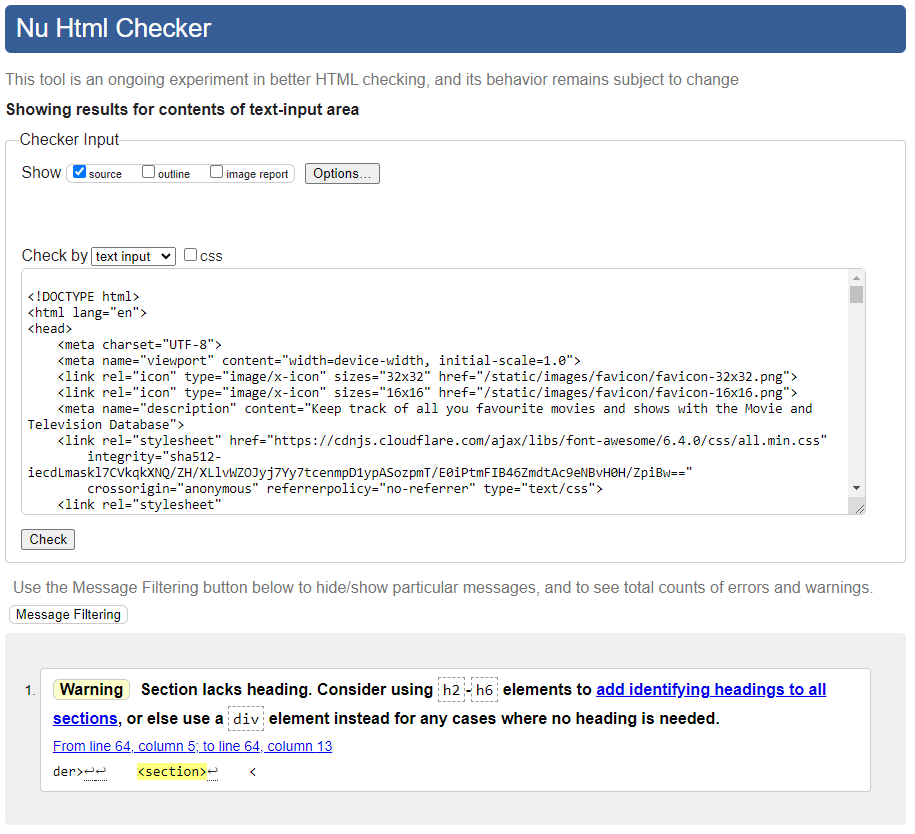
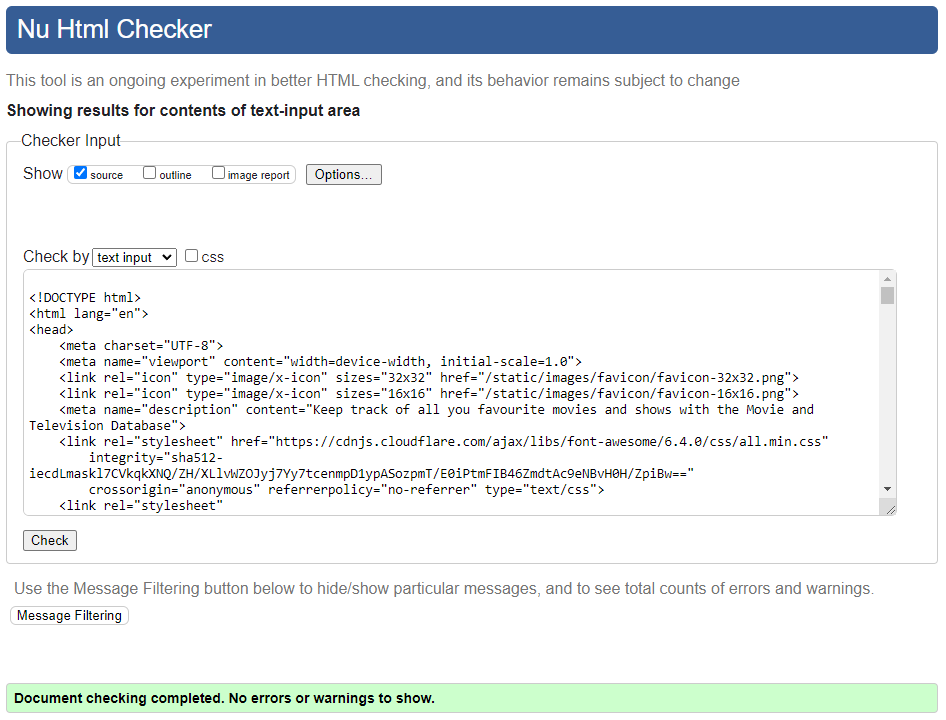
Handle Internal Server Error

diff --git a/templates/500.html b/templates/500.html
@@ -1,0 +1,46 @@
+<!DOCTYPE html>
+<html lang="en">
+<head>
+    <meta charset="UTF-8">
+    <meta name="viewport" content="width=device-width, initial-scale=1.0">
+    <meta http-equiv="X-UA-Compatible" content="ie=edge">
+    <meta name="description" content="Page not found">
+    <meta http-equiv="refresh" content="10; url={{ url_for('home') }}">
+    <link rel="icon" type="image/x-icon" sizes="32x32" href="{{ url_for('static', filename='images/favicon/favicon-32x32.png') }}">
+    <link rel="icon" type="image/x-icon" sizes="16x16" href="{{ url_for('static', filename='images/favicon/favicon-16x16.png') }}">
+    <link rel="stylesheet" href="https://cdnjs.cloudflare.com/ajax/libs/font-awesome/6.4.0/css/all.min.css" 
+        integrity="sha512-iecdLmaskl7CVkqkXNQ/ZH/XLlvWZOJyj7Yy7tcenmpD1ypASozpmT/E0iPtmFIB46ZmdtAc9eNBvH0H/ZpiBw==" 
+        crossorigin="anonymous" referrerpolicy="no-referrer" type="text/css">
+    <link rel="stylesheet" href="https://cdnjs.cloudflare.com/ajax/libs/materialize/1.0.0/css/materialize.min.css" type="text/css">
+    <link href="https://fonts.googleapis.com/icon?family=Material+Icons" rel="stylesheet">
+    <link rel="stylesheet" href="{{ url_for('static', filename='css/style.css') }}" type="text/css">
+    <title>500 | MTDb | 500</title>
+</head>
+<body>
+    <main class="error-page">
+        <!-- Start of 500 message -->
+        <section class="container">
+            <div class="row">
+                <div class="col s12 error-content">
+                    <h1>500</h1>
+                    <h3>Internal Server Error!</h3>
+                    <p>
+                        You'll automatically be redirected to the homepage in <strong id="countdown">10</strong> seconds.
+                        <br>
+                        Return to <a href="{{ url_for('home') }}"><strong>Home Page</strong></a> now!
+                    </p>
+                </div>
+            </div>
+        </section>
+    </main>
+    
+    <!-- Script for countdown timer -->
+    <script>
+        let coundown = 9;
+        let timer = setInterval(function(){  
+            document.getElementById("countdown").innerHTML = coundown;
+            coundown -= 1;
+        }, 1000);
+    </script>
+</body>
+</html>

diff --git a/app.py b/app.py
@@ -720,6 +720,14 @@ def page_not_found(e):
     return render_template("404.html"), 404
 
 
+@app.errorhandler(500)
+def internal_server_error(e):
+    """
+    Route for all 500 errors
+    """
+    return render_template("500.html"), 500
+
+
 if __name__ == "__main__":
     app.run(host=os.environ.get("IP"),
             port=int(os.environ.get("PORT")),

diff --git a/TESTING.md b/TESTING.md
@@ -10,13 +10,13 @@ I have used the recommended [HTML W3C Validator](https://validator.w3.org) to va
 
 | Page | W3C URL | Screenshot | Notes |
 | --- | --- | --- | --- |
-| Home | [W3C](https://validator.w3.org/nu/?doc=https%3A%2F%2Fmtdb-movie-television-database-ff116cae015a.herokuapp.com%2Fhome) | ![screenshot](documentation/validation/html-validation-home.png) | Section lacks header h2-h6 warning |
-| Home (logged in)| n/a | ![screenshot](documentation/validation/html-validation-home-logged-in.png) | Section lacks header h2-h6 warning |
-| search-results | n/a | ![screenshot](documentation/validation/html-validation-search-results.png) | Section lacks header h2-h6 warning |
-| search-results (logged in)| n/a | ![screenshot](documentation/validation/html-validation-search-results-logged-in.png) | Section lacks header h2-h6 warning |
-| Library | n/a | ![screenshot](documentation/validation/html-validation-library.png) | Section lacks header h2-h6 warning |
-| Feature-details | n/a | ![screenshot](documentation/validation/html-validation-feature-details.png) | Section lacks header h2-h6 warning |
-| lists | n/a | ![screenshot](documentation/validation/html-validation-lists.png) | Section lacks header h2-h6 warning |
+| Home | [W3C](https://validator.w3.org/nu/?doc=https%3A%2F%2Fmtdb-movie-television-database-ff116cae015a.herokuapp.com%2Fhome) | ![screenshot](documentation/validation/html-validation-home.png) | Pass - No Errors |
+| Home (logged in)| n/a | ![screenshot](documentation/validation/html-validation-home-logged-in.png) | Pass - No Errors |
+| search-results | n/a | ![screenshot](documentation/validation/html-validation-search-results.png) | Pass - No Errors |
+| search-results (logged in)| n/a | ![screenshot](documentation/validation/html-validation-search-results-logged-in.png) | Pass - No Errors |
+| Library | n/a | ![screenshot](documentation/validation/html-validation-library.png) | Pass - No Errors |
+| Feature-details | n/a | ![screenshot](documentation/validation/html-validation-feature-details.png) | Pass - No Errors |
+| lists | n/a | ![screenshot](documentation/validation/html-validation-lists.png) | Pass - No Errors |
 | 404 | n/a | ![screenshot](documentation/validation/html-validation-404.png) | Pass - No Errors |
 
 ### CSS
